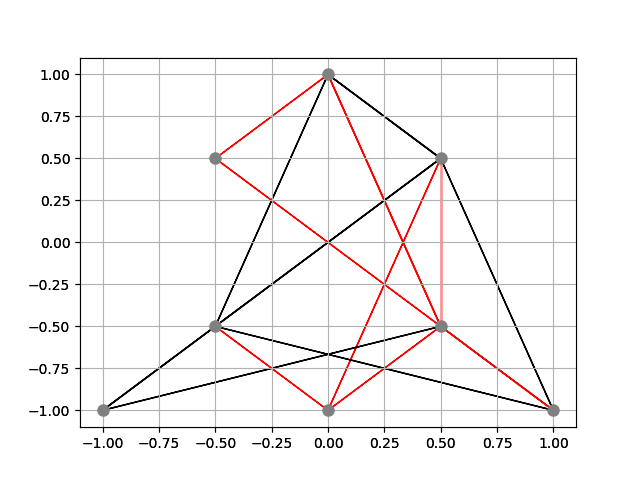
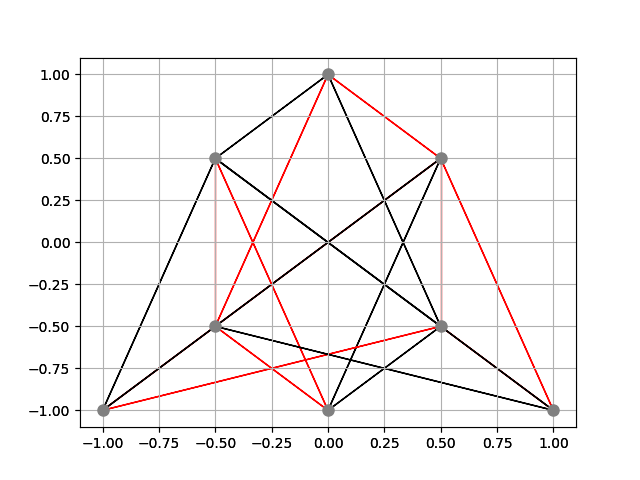
started coding merge_branch_outputs() method. taking a break at this point to add scale factors.

diff --git a/pureples/des_hyperneat/des_hyperneat.py b/pureples/des_hyperneat/des_hyperneat.py
@@ -62,7 +62,9 @@ class DESNetwork:
 
             # Where the magic happens.
             new_hidden_nodes, new_connections = self.des_hyperneat(branch_nodes)
-        
+
+            # self.merge_branch_outputs(connections, new_connections)
+
             hidden_nodes = hidden_nodes.union(new_hidden_nodes)
             connections = connections.union(new_connections)
 
@@ -97,7 +99,25 @@ class DESNetwork:
         # This is actually a feedforward network.
         return neat.nn.RecurrentNetwork(input_nodes, output_nodes, node_evals)
 
-        # The hidden node ids need to continue through each branch's nodes and connections.
+    # def merge_branch_outputs(self, cons, new_cons):
+    #     """
+    #     Merge connections generated by a branch with the rest of the connections in a phenotype network.
+    #     """
+
+    #     if cons:
+    #         if new_cons:
+    #             for ncid, nc in new_cons:
+    #                 if cons[ncid]:
+                        
+    #                         if nc == c:
+    #                             print(hi)
+    #                         #elif nc.
+    #         else:
+    #             return cons
+    #     else:
+    #         return new_cons
+            
+
     @staticmethod
     def get_weights(p):
         """